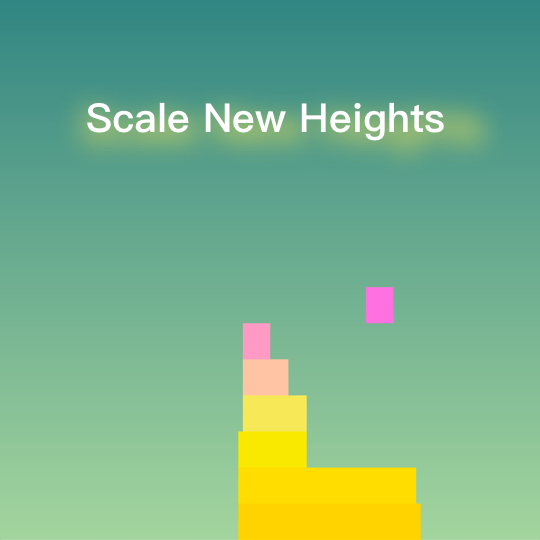
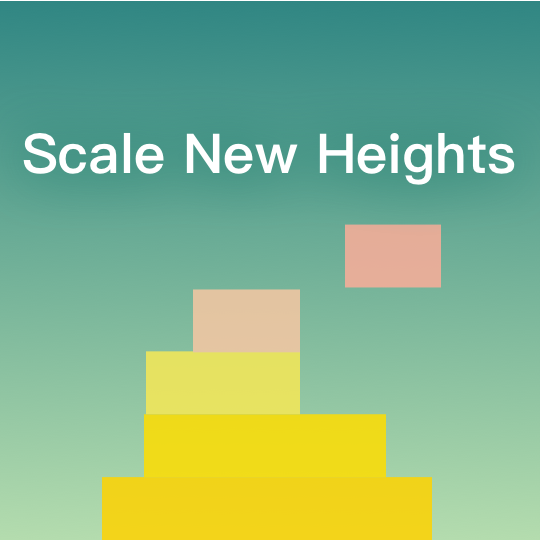
new height

Changed region(s): [[0.1778, 0.5333, 0.8, 1.0], [0.0296, 0.1778, 0.9481, 0.3556], [0.6222, 0.4148, 0.8296, 0.6222]]

diff --git a/pages/work-7.html b/pages/work-7.html
@@ -45,8 +45,7 @@
           </div>
         </div>
         <div class="row">
-          <div class="col-md-4 text-right pb-md">
-            </br>
+          <div class="col-md-4 text-left pb-md">
             <h4>Name</h4>
             <p>Scale New Height</p>
             <h4>Time</h4>
@@ -54,60 +53,67 @@
             <h4>What I Do</h4>
             <p>Game Design</p>
             <h4>brief intruction</h4>
-            <p>Just a game
+            <p>This is a small game made by processing, players can click the mouse to generate a new square, layer by
+              layer, to see who can stack the highest square.
           </div>
-          <div class="col-md-4"><img alt="Ziv Liu" src="../images/portfolio/work-7/move.gif">
+          <div class="col-md-4">
+
           </div>
+          <div class="col-md-4"><img alt="Ziv Liu" src="../images/portfolio/work-7/move.gif"></div>
         </div>
+
+
 
 
         </br>
         </br>
 
-        <!--
+
         <div class="row">
           <div class="col-md-12 text-center">
-            <h2>游戏设计</h2>
+            <h2>Game mechanics</h2>
           </div>
           <div class="col-md-4">
             <div class="col-md-12"></div>
-            <img alt="Ziv Liu" src="../images/portfolio/work-7/004.png">
+            <img alt="Ziv Liu" src="../images/portfolio/work-7/p1.png">
             <div class="col-md-12 text-center">
               <h4>
-                logo
+
               </h4>
-              <p>The scene is set in a chamber of secrets, the elves want to play tricks on the player.
-              </p>
+              <p>At the beginning of the game, a square will move left and right. Players can click the left mouse
+                button to make the square stop moving.</p>
             </div>
           </div>
           <div class="col-md-4">
             <div class="col-md-12"></div>
-            <img alt="Ziv Liu" src="../images/portfolio/work-7/004.png">
+            <img alt="Ziv Liu" src="../images/portfolio/work-7/p2.png">
             <div class="col-md-12 text-center">
-              <h4>logo </h4>
-              <p>The scene is set in a chamber of secrets, the elves want to play tricks on the player. </p>
+              <h4></h4>
+              <p>If the stopped moving block exceeds the previous block, it will be cut off and a new block will be
+                generated. The length of the new block will be the same as that of the cut block.</p>
             </div>
           </div>
           <div class="col-md-4">
             <div class="col-md-12"></div>
-            <img alt="Ziv Liu" src="../images/portfolio/work-7/004.png">
+            <img alt="Ziv Liu" src="../images/portfolio/work-7/p3.png">
 
             <div class="col-md-12 text-center">
               <h4>
-                logo
+
               </h4>
-              <p>The scene is set in a chamber of secrets, the elves want to play tricks on the player.
+              <p>Stack one layer on top of another until the moving square has no overlap with the previous one, and
+                the game ends.
               </p>
             </div>
           </div>
         </div>
-      </div>
 
-      -->
+
+        </br>
 
         <div class="row">
           <div class="col-md-12 text-center">
-            <h2>Download</h2>
+            <h2>Download Game</h2>
           </div>
           <div class="col-md-3 text-center">
 
@@ -148,41 +154,41 @@
   </footer>
   </div>
   <aside id="navigation">
-      <div class="inner">
-        <div class="nav-trigger">
-          <div class="bar"></div>
-          <div class="bar"></div>
-          <div class="bar"></div>
-        </div>
-        <ul class="menu">
-          <!--
+    <div class="inner">
+      <div class="nav-trigger">
+        <div class="bar"></div>
+        <div class="bar"></div>
+        <div class="bar"></div>
+      </div>
+      <ul class="menu">
+        <!--
           <li> <a href="index.html">Work</a></li>
           
           <li> <a href="pages/about.html">About</a></li>
           <li> <a href="pages/blog.html">Blog</a></li>
           <li> <a href="pages/contact.html">Contact</a></li>
           -->
-        </ul>
-        <p>Zhiyuan Liu (刘致远)</p>
-        <hr>
-        <p>+86 18075749642</p>
-        <p>liuzhiyu15@mails.tsinghua.edu.cn</p>
-        <p>http://zivvvvv.com/</p>
-  
-  
-  
-        <hr>
-        <p>In delay there lies no plenty ,Then come kiss me ,sweet and twenty ,Youth’s a stuff that will not endure .</p>
-        <hr>
-        <!--
+      </ul>
+      <p>Zhiyuan Liu (刘致远)</p>
+      <hr>
+      <p>+86 18075749642</p>
+      <p>liuzhiyu15@mails.tsinghua.edu.cn</p>
+      <p>http://zivvvvv.com/</p>
+
+
+
+      <hr>
+      <p>In delay there lies no plenty ,Then come kiss me ,sweet and twenty ,Youth’s a stuff that will not endure .</p>
+      <hr>
+      <!--
         <ul class="menu-small">
           <li> <a href="#">Instagram</a></li>
           <li> <a href="#">Facebook</a></li>
           <li> <a href="#">Behance</a></li>
         </ul>
         -->
-      </div>
-    </aside>
+    </div>
+  </aside>
   <script src="../js/assets/jquery.js"></script>
   <script src="../js/assets/bootstrap.js"></script>
   <script src="../js/assets/imagesloaded.pkgd.min.js"></script>

diff --git a/pages/work-3.html b/pages/work-3.html
@@ -37,9 +37,6 @@
           <div class="col-md-12"><img alt="Ziv Liu" src="..//images/portfolio/work-3/001.png">
           </div>
         </div>
-        </br>
-        </br>
-        </br>
         <div class="row">
           <div class="col-md-12 text-center pt-md pb-lg">
           </div>

diff --git a/css/core.css b/css/core.css
@@ -16620,9 +16620,10 @@ h1 {
 }
 
 h2 {
-  font-weight: 300;
+  font-weight: bold;
   line-height: 1.5;
   margin-top: 40px;
+
 }
 
 @media screen and (max-width: 768px) {
